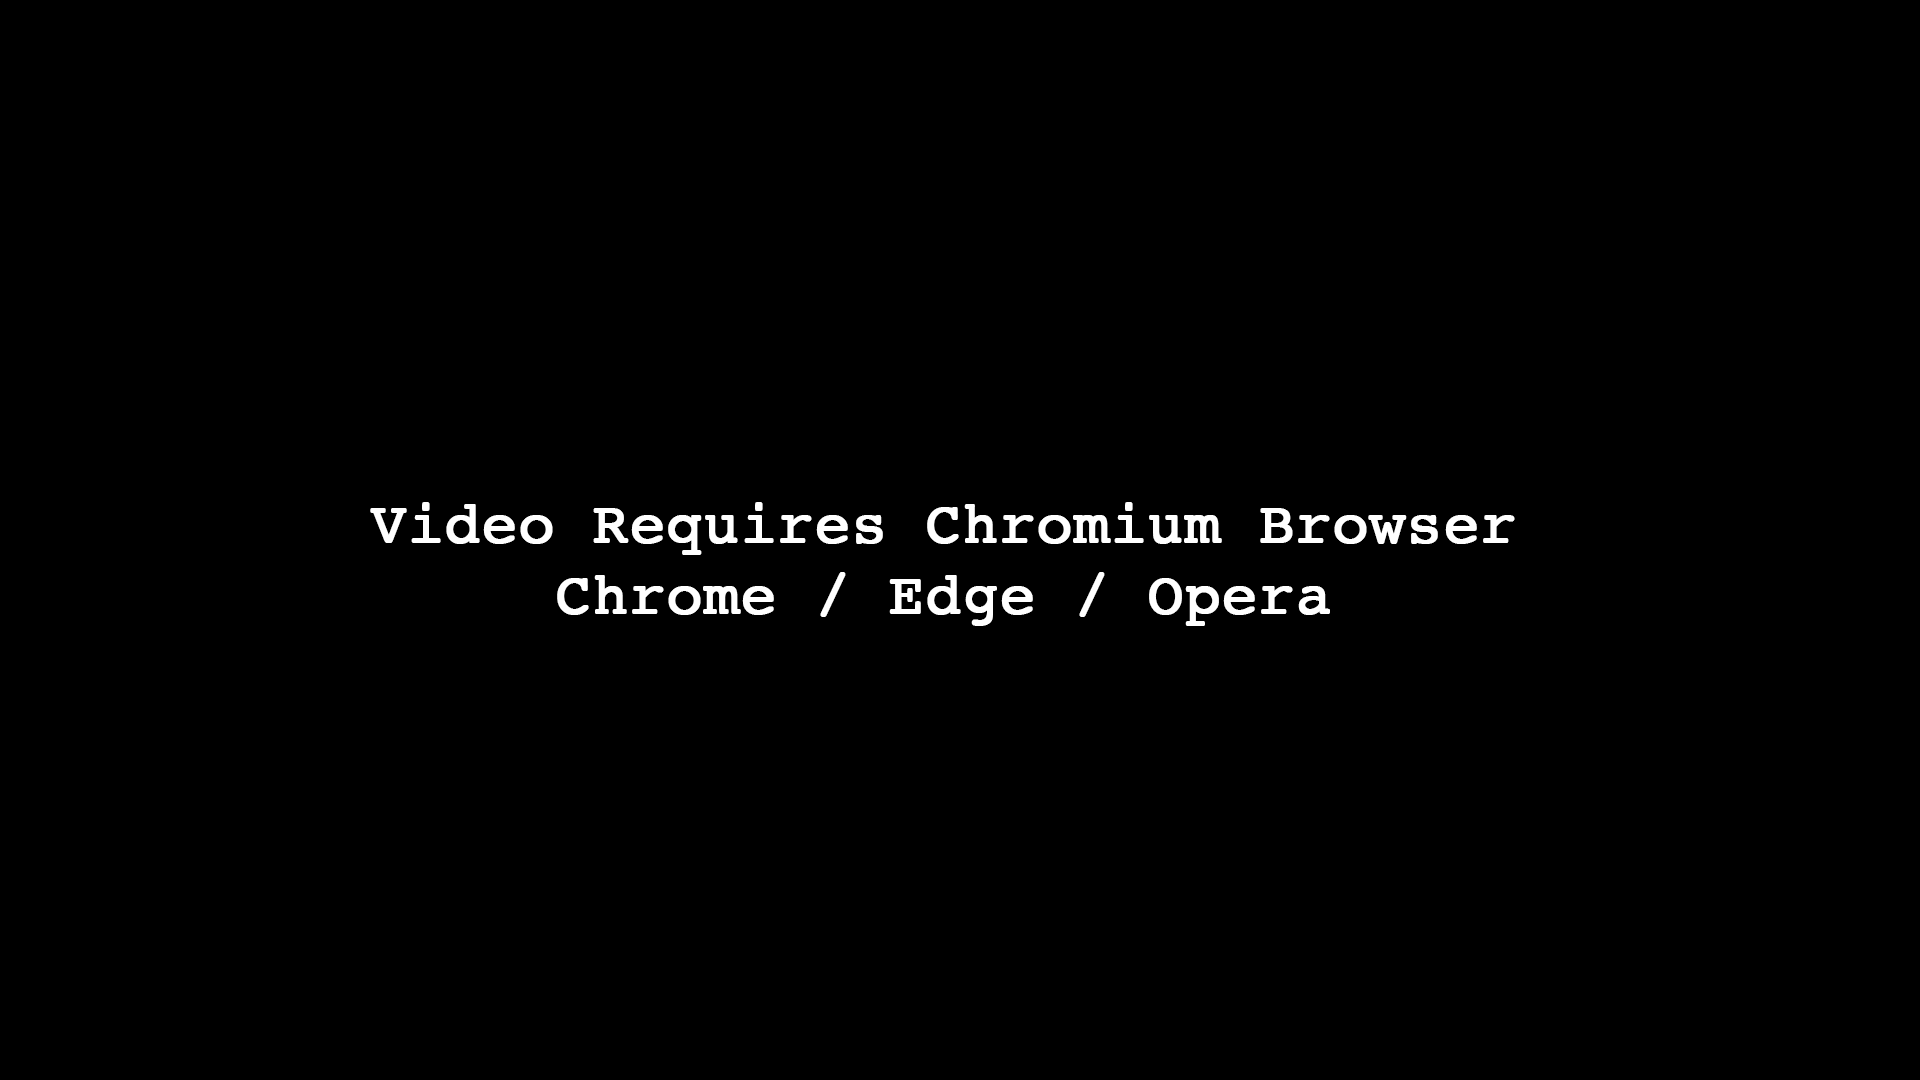
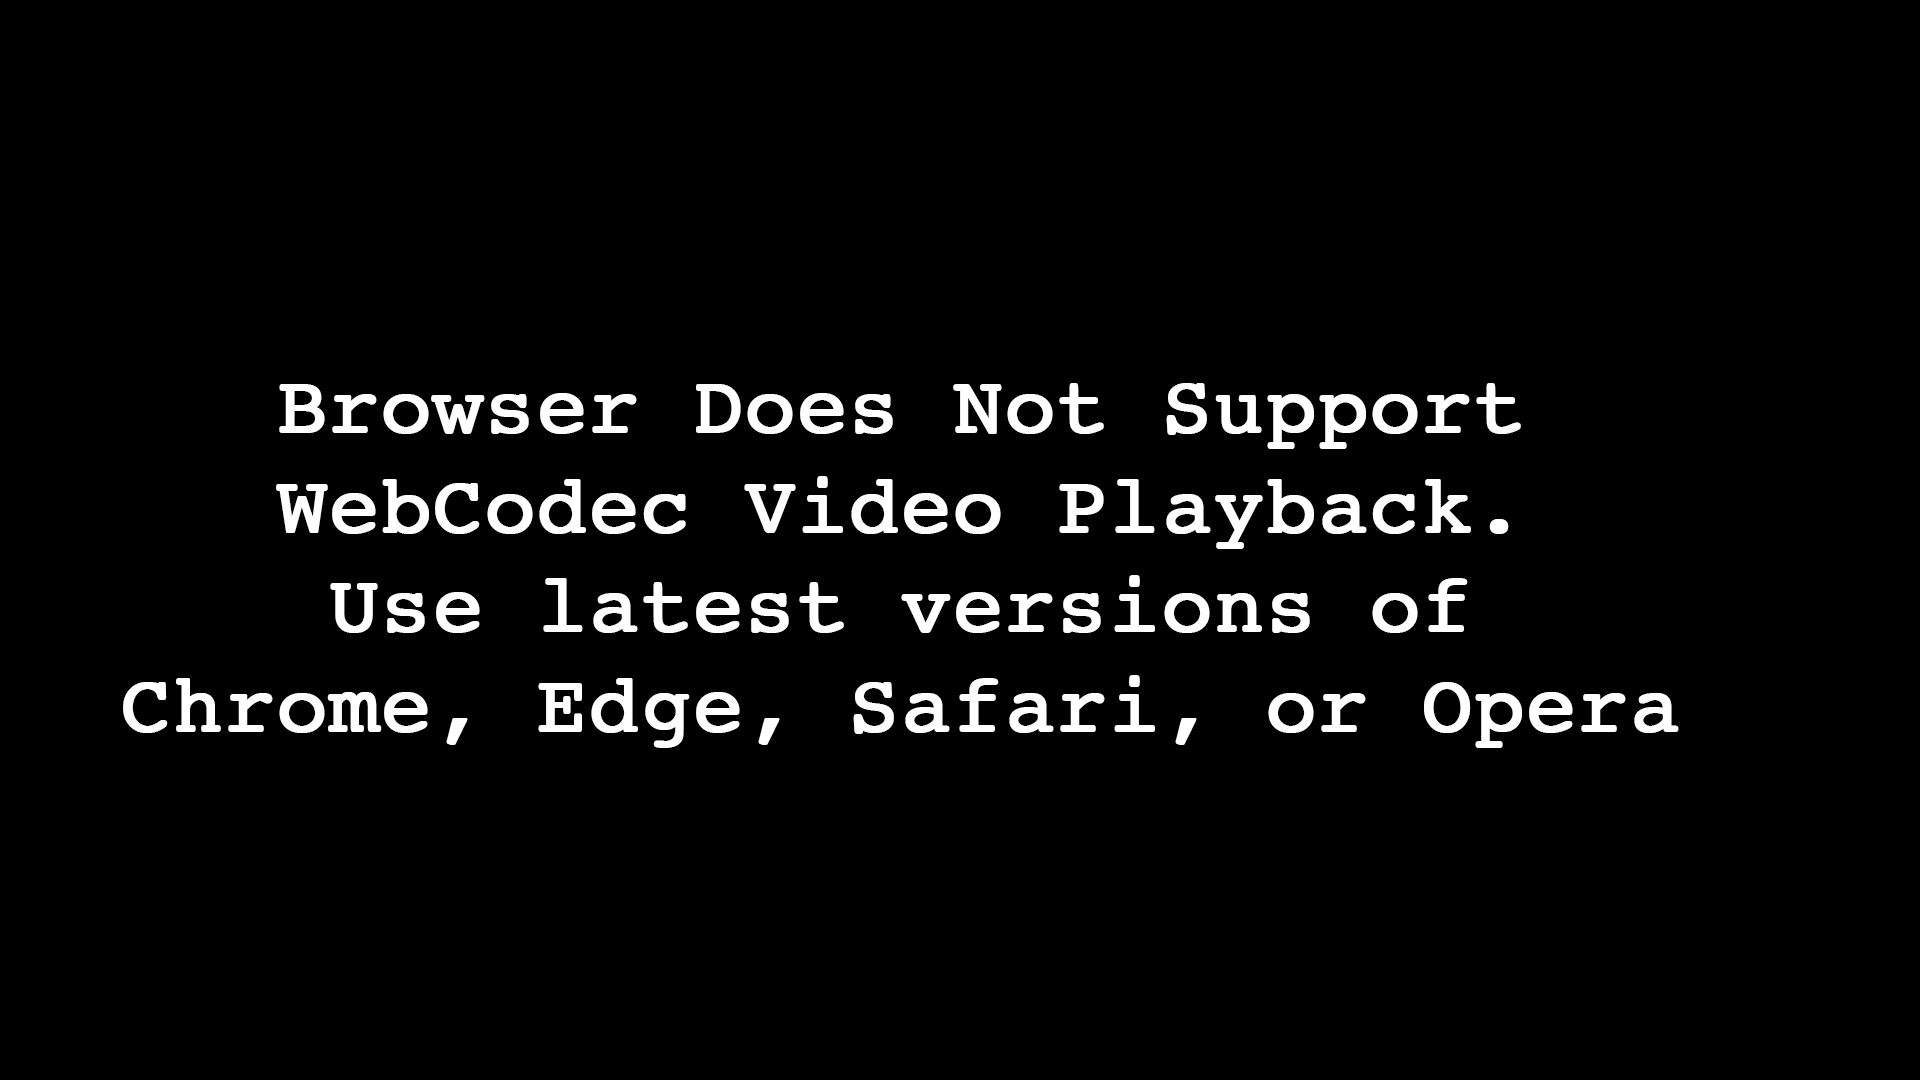
Fixed path to error image for incompatible browsers. Fixed code that loads this (on firefox) Updated error message

diff --git a/src/utils.js b/src/utils.js
@@ -1,10 +1,4 @@
-// utils.js - a variety of useful funtions and shortcuts
-
-
-// Single line MD5 function
-//import * as THREE from '../three.js/build/three.module.js';
-
-import JSURL from "./js/jsurl";
+// utils.js - a variety of useful functions and shortcuts
 import {Sit} from "./Globals";
 
 const MD5 = function(d){var r = M(V(Y(X(d),8*d.length)));return r.toLowerCase()};function M(d){for(var _,m="0123456789ABCDEF",f="",r=0; r<d.length; r++)_=d.charCodeAt(r),f+=m.charAt(_>>>4&15)+m.charAt(15&_);return f}function X(d){for(var _=Array(d.length>>2),m=0; m<_.length; m++)_[m]=0;for(m=0; m<8*d.length; m+=8)_[m>>5]|=(255&d.charCodeAt(m/8))<<m%32;return _}function V(d){for(var _="",m=0; m<32*d.length; m+=8)_+=String.fromCharCode(d[m>>5]>>>m%32&255);return _}function Y(d, _){d[_>>5]|=128<<_%32,d[14+(_+64>>>9<<4)]=_;for(var m=1732584193,f=-271733879,r=-1732584194,i=271733878,n=0; n<d.length; n+=16){var h=m,t=f,g=r,e=i;f=md5_ii(f=md5_ii(f=md5_ii(f=md5_ii(f=md5_hh(f=md5_hh(f=md5_hh(f=md5_hh(f=md5_gg(f=md5_gg(f=md5_gg(f=md5_gg(f=md5_ff(f=md5_ff(f=md5_ff(f=md5_ff(f,r=md5_ff(r,i=md5_ff(i,m=md5_ff(m,f,r,i,d[n+0],7,-680876936),f,r,d[n+1],12,-389564586),m,f,d[n+2],17,606105819),i,m,d[n+3],22,-1044525330),r=md5_ff(r,i=md5_ff(i,m=md5_ff(m,f,r,i,d[n+4],7,-176418897),f,r,d[n+5],12,1200080426),m,f,d[n+6],17,-1473231341),i,m,d[n+7],22,-45705983),r=md5_ff(r,i=md5_ff(i,m=md5_ff(m,f,r,i,d[n+8],7,1770035416),f,r,d[n+9],12,-1958414417),m,f,d[n+10],17,-42063),i,m,d[n+11],22,-1990404162),r=md5_ff(r,i=md5_ff(i,m=md5_ff(m,f,r,i,d[n+12],7,1804603682),f,r,d[n+13],12,-40341101),m,f,d[n+14],17,-1502002290),i,m,d[n+15],22,1236535329),r=md5_gg(r,i=md5_gg(i,m=md5_gg(m,f,r,i,d[n+1],5,-165796510),f,r,d[n+6],9,-1069501632),m,f,d[n+11],14,643717713),i,m,d[n+0],20,-373897302),r=md5_gg(r,i=md5_gg(i,m=md5_gg(m,f,r,i,d[n+5],5,-701558691),f,r,d[n+10],9,38016083),m,f,d[n+15],14,-660478335),i,m,d[n+4],20,-405537848),r=md5_gg(r,i=md5_gg(i,m=md5_gg(m,f,r,i,d[n+9],5,568446438),f,r,d[n+14],9,-1019803690),m,f,d[n+3],14,-187363961),i,m,d[n+8],20,1163531501),r=md5_gg(r,i=md5_gg(i,m=md5_gg(m,f,r,i,d[n+13],5,-1444681467),f,r,d[n+2],9,-51403784),m,f,d[n+7],14,1735328473),i,m,d[n+12],20,-1926607734),r=md5_hh(r,i=md5_hh(i,m=md5_hh(m,f,r,i,d[n+5],4,-378558),f,r,d[n+8],11,-2022574463),m,f,d[n+11],16,1839030562),i,m,d[n+14],23,-35309556),r=md5_hh(r,i=md5_hh(i,m=md5_hh(m,f,r,i,d[n+1],4,-1530992060),f,r,d[n+4],11,1272893353),m,f,d[n+7],16,-155497632),i,m,d[n+10],23,-1094730640),r=md5_hh(r,i=md5_hh(i,m=md5_hh(m,f,r,i,d[n+13],4,681279174),f,r,d[n+0],11,-358537222),m,f,d[n+3],16,-722521979),i,m,d[n+6],23,76029189),r=md5_hh(r,i=md5_hh(i,m=md5_hh(m,f,r,i,d[n+9],4,-640364487),f,r,d[n+12],11,-421815835),m,f,d[n+15],16,530742520),i,m,d[n+2],23,-995338651),r=md5_ii(r,i=md5_ii(i,m=md5_ii(m,f,r,i,d[n+0],6,-198630844),f,r,d[n+7],10,1126891415),m,f,d[n+14],15,-1416354905),i,m,d[n+5],21,-57434055),r=md5_ii(r,i=md5_ii(i,m=md5_ii(m,f,r,i,d[n+12],6,1700485571),f,r,d[n+3],10,-1894986606),m,f,d[n+10],15,-1051523),i,m,d[n+1],21,-2054922799),r=md5_ii(r,i=md5_ii(i,m=md5_ii(m,f,r,i,d[n+8],6,1873313359),f,r,d[n+15],10,-30611744),m,f,d[n+6],15,-1560198380),i,m,d[n+13],21,1309151649),r=md5_ii(r,i=md5_ii(i,m=md5_ii(m,f,r,i,d[n+4],6,-145523070),f,r,d[n+11],10,-1120210379),m,f,d[n+2],15,718787259),i,m,d[n+9],21,-343485551),m=safe_add(m,h),f=safe_add(f,t),r=safe_add(r,g),i=safe_add(i,e)}return Array(m,f,r,i)}function md5_cmn(d, _, m, f, r, i){return safe_add(bit_rol(safe_add(safe_add(_,d),safe_add(f,i)),r),m)}function md5_ff(d, _, m, f, r, i, n){return md5_cmn(_&m|~_&f,d,_,r,i,n)}function md5_gg(d, _, m, f, r, i, n){return md5_cmn(_&f|m&~f,d,_,r,i,n)}function md5_hh(d, _, m, f, r, i, n){return md5_cmn(_^m^f,d,_,r,i,n)}function md5_ii(d, _, m, f, r, i, n){return md5_cmn(m^(_|~f),d,_,r,i,n)}function safe_add(d, _){var m=(65535&d)+(65535&_);return(d>>16)+(_>>16)+(m>>16)<<16|65535&m}function bit_rol(d, _){return d<<_|d>>>32-_}
@@ -174,7 +168,6 @@ export function smoothDerivative(data, window, iterations) {
 // CHECK FIRST that it's accurate
 // MAYBE JUET SMOOTH?
 export function ExpandKeyframes(input, outLen, indexCol = 0, dataCol = 1) {
-    var n = input.length;
     var out = new Array()
     var aFrame = parseInt(input[0][indexCol])
     var aValue = parseFloat(input[0][dataCol])
@@ -262,13 +255,12 @@ export function getTextBBox( ctx, text ) {
     return { left, top, right, bottom, width, height };
 }
 
-// https://stackoverflow.com/questions/9421202/how-do-i-make-an-image-load-synchronously
-export var loadImage = async img => {
+export var loadImage = async (src) => {
     return new Promise((resolve, reject) => {
-        img.onload = async () => {
-//            console.log(">>>>>>>>>>>>>>>>>>>>Image Loaded");
-            resolve(true);
-        };
+        let img = new Image();
+        img.onload = () => resolve(img);
+        img.onerror = () => reject(new Error('Image loading failed'));
+        img.src = src;
     });
 };
 

diff --git a/src/nodes/CNodeVideoWebCodec.js b/src/nodes/CNodeVideoWebCodec.js
@@ -1,11 +1,9 @@
 import {CVideoData, CNodeVideoView} from "./CNodeVideoView";
 import {MP4Demuxer, MP4Source} from "../js/mp4-decode/mp4_demuxer";
-//import {MP4Demuxer} from "../js/mp4-decode/demuxer_mp4";  // the new on
 import {infoDiv, Sit} from "../Globals";
-import {FileManager} from "../CManager";
-import {assert, versionString} from "../utils";
+import {assert, loadImage, versionString} from "../utils";
 import {par} from "../par";
-import {SetupGUIFrames, updateGUIFrames} from "../JetGUI";
+import { updateGUIFrames} from "../JetGUI";
 import {updateFrameSlider} from "../FrameSlider";
 import {isLocal} from "../../config";
 
@@ -51,9 +49,9 @@ export class CVideoWebCodecData extends CVideoData {
         }
 
         if (this.incompatible) {
-            console.log("Requires up-todate WebCodec Browser (Chrome/Edge/Safari")
+            console.log("Requires up-to-date WebCodec Browser (Chrome/Edge/Safari")
             this.errorImage = null;
-            FileManager.loadImage('./images/errorImage.png', "errorImage").then(result => {
+            loadImage('./data/images/errorImage.png').then(result => {
                 this.errorImage = result;
             })
             return;
@@ -587,7 +585,7 @@ export class CVideoWebCodecData extends CVideoData {
                 // i.e. we have the usable images in this.imageCache
                 // and the ImageData version in this.imageDataCache
                 this.ctx_tmp.drawImage(image,0,0)
-                var imageData = this.ctx_tmp.getImageData(0,0,this.width, this.height)
+                const imageData = this.ctx_tmp.getImageData(0,0,this.width, this.height)
                 this.imageDataCache[frameNumber] = imageData
             }
 

diff --git a/src/CManager.js b/src/CManager.js
@@ -1,4 +1,4 @@
-import {assert, getFileExtensionIncludingAttachments, isHttpOrHttps, loadImage, versionString} from "./utils.js";
+import {assert, getFileExtensionIncludingAttachments, isHttpOrHttps, versionString} from "./utils.js";
 
 import JSZip from "./js/jszip.js"
 import {parseXml} from "./KMLUtils";
